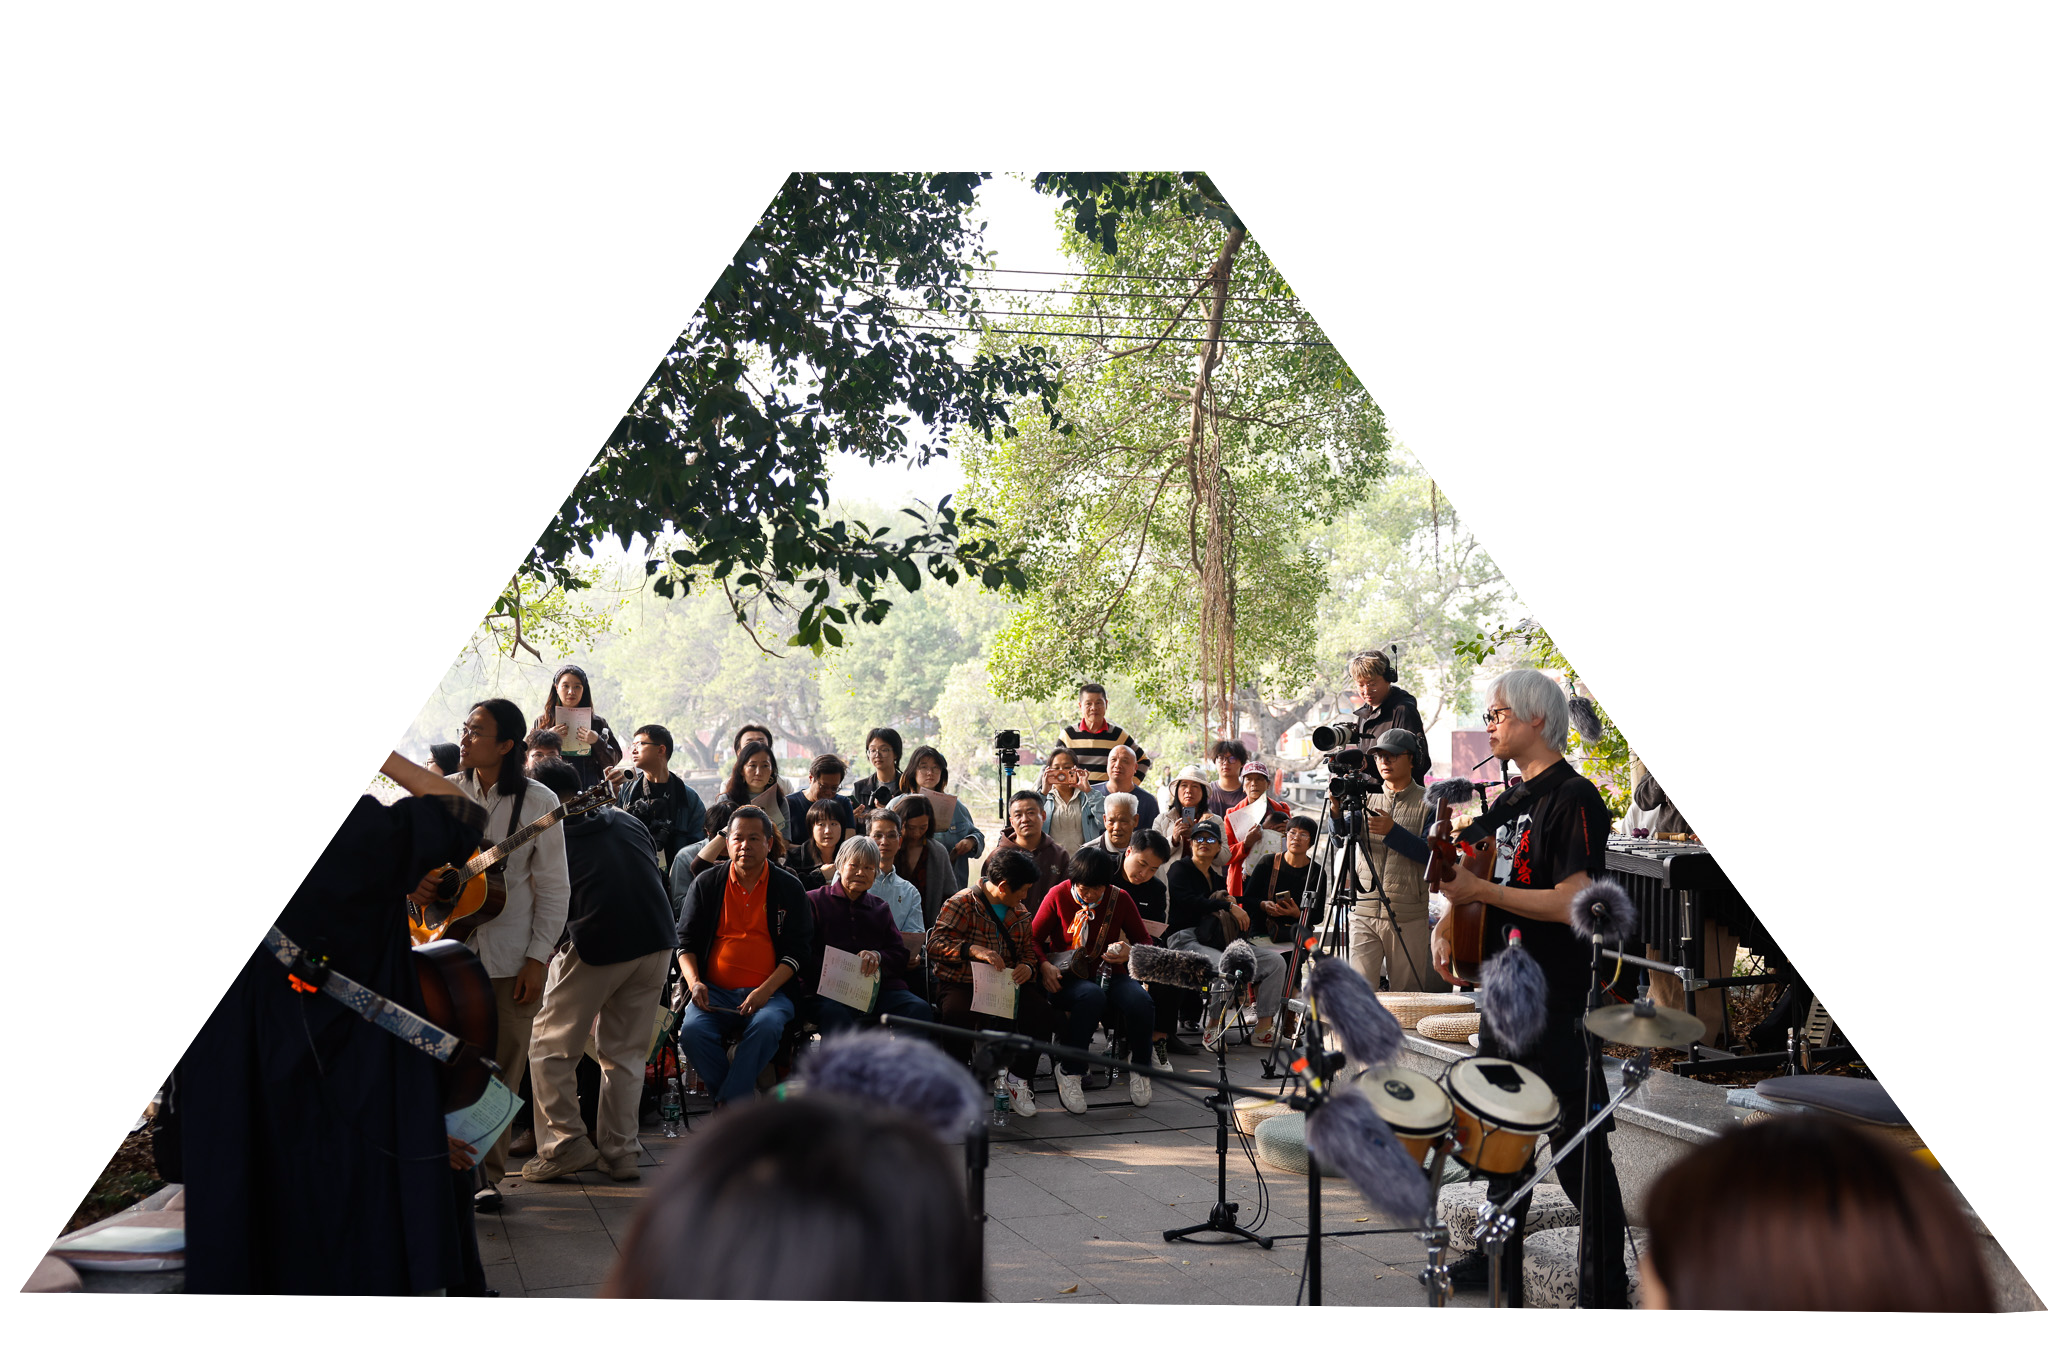
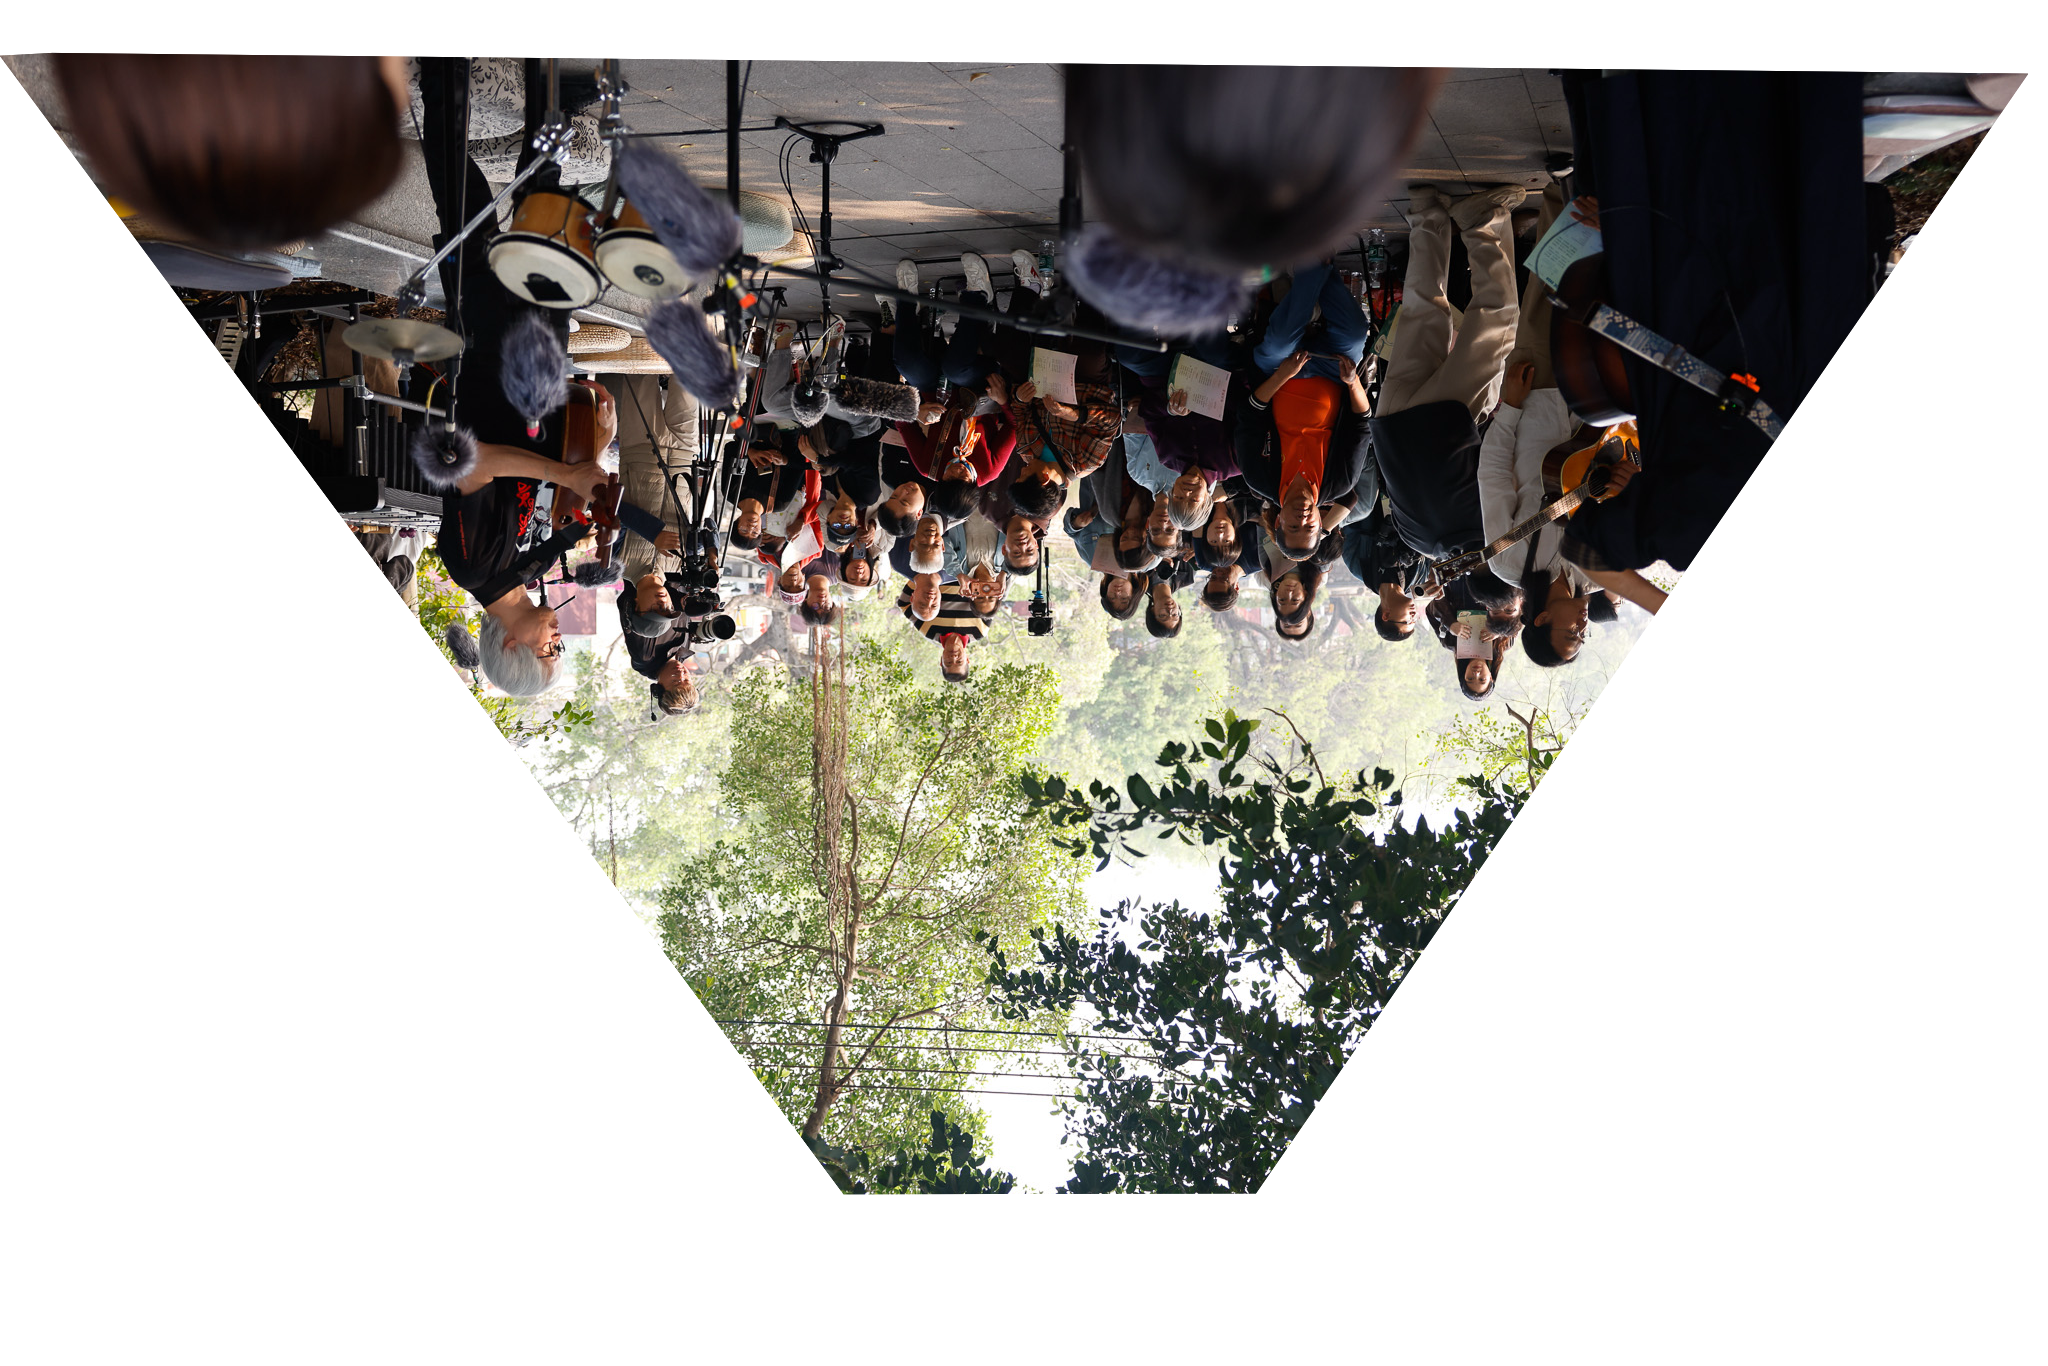
Place Folk Rhyme performance prose above images with caption below

diff --git a/04-FolkrhymeArchiving/index.html b/04-FolkrhymeArchiving/index.html
@@ -89,6 +89,7 @@
     </section>
 
     <div class="project-stack project-stack--performance">
+      <div id="fr-mid1" class="fr-prose project-prose"></div>
       <div class="fr-performance project-stack__media" role="group" aria-label="Live performance with villagers">
         <figure class="fr-performance__item">
           <img
@@ -109,7 +110,6 @@
           />
         </figure>
       </div>
-      <div id="fr-mid1" class="fr-prose project-prose"></div>
       <p class="fr-caption project-prose">live performance with villagers</p>
     </div>
 

diff --git a/04-FolkrhymeArchiving/project.css b/04-FolkrhymeArchiving/project.css
@@ -82,6 +82,10 @@
   text-align: center;
 }
 
+.fr-page .project-stack--performance .project-prose + .fr-performance {
+  margin-top: 1.15rem;
+}
+
 .fr-page .project-stack .fr-caption.project-prose {
   margin-top: 0.85rem;
 }
